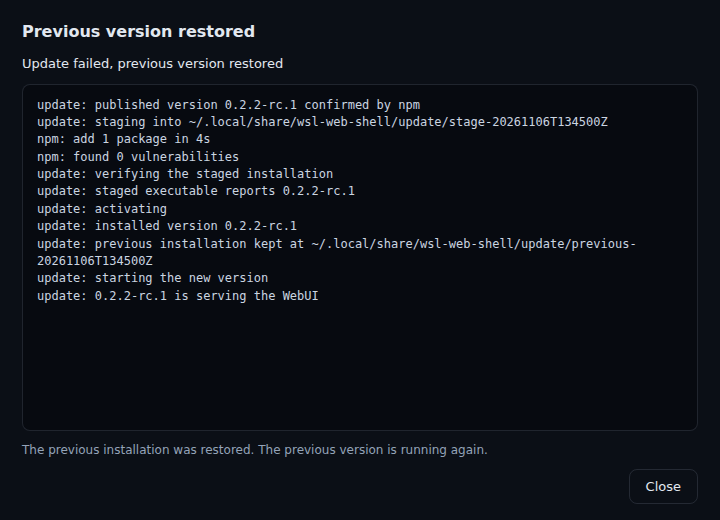
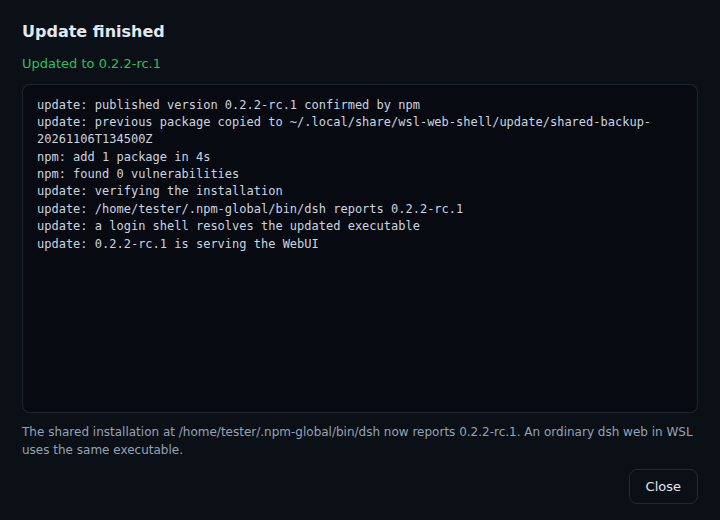
docs: refresh shared-DSH update screenshots (#22)
* docs: refresh update confirmation and terminal screenshots for the shared-DSH model

Documentation media only (issue #21); the confirmation and terminal pages
themselves are unchanged.

Both images were captured from the real pages in `src/update/` by the existing
repository harness (`npm run screenshots` -> `scripts/screenshot-ui.cjs`) with its
fixture data, so no real update runs and no WSL or npm state is touched. Fixture
values: distribution `Ubuntu`, executable `/home/tester/.npm-global/bin/dsh`,
installation `npm, global user`, versions `0.2.1-rc.5 -> 0.2.2-rc.1`.

- `update-confirm.png` now shows what the current UI shows: the shared-installation
  warning ("not an app-private copy"), the executable row and the npm install scope
  instead of the retired "Isolated runtime" / "Rollback copy" rows. The harness sizes
  the window to the content so the image has no scrollbar and no clipped bullets
  (620x530).
- `update-terminal.png` shows the successful end state of the shared-install updater -
  the `update/shared-backup-<tx>` snapshot line, the "verifying the installation"
  lines, the login-shell proof and "is serving the WebUI" - instead of the pre-#17
  staging text (720x520).

Harness change (dev tooling, `--write-images` path only, never `chrome:smoke`): the
checks deliberately leave the terminal in the rolled-back state, so the screenshot
step now requests the successful end state and captures both update windows before
[…]

Changed region(s): [[0.0306, 0.2154, 0.9167, 0.5846], [0.0306, 0.8, 0.9472, 0.8923], [0.0306, 0.0308, 0.3972, 0.1538]]

diff --git a/docs/update.md b/docs/update.md
@@ -21,6 +21,19 @@ footer pill (only while an update exists)
    -> app relaunches the packaged EXE (or says it cannot)
 ```
 
+## What the user sees
+
+Both screenshots are rendered by the real confirmation and terminal pages
+(`src/update/`) through the repository harness `scripts/screenshot-ui.cjs`
+(`npm run screenshots`), which drives them with fixture data and never runs a real
+update. Paths, versions and the distribution name are test values. They are
+documentation-sized captures (sized to their content), not a strict copy of the
+production window geometry.
+
+| Confirmation | Terminal |
+|---|---|
+| ![Update confirmation: executable, npm scope, shared-installation warning](media/update-confirm.png) | ![Update terminal: snapshot, install, login-shell verification](media/update-terminal.png) |
+
 ## What "version" means here
 
 Two independent things, deliberately kept apart:
